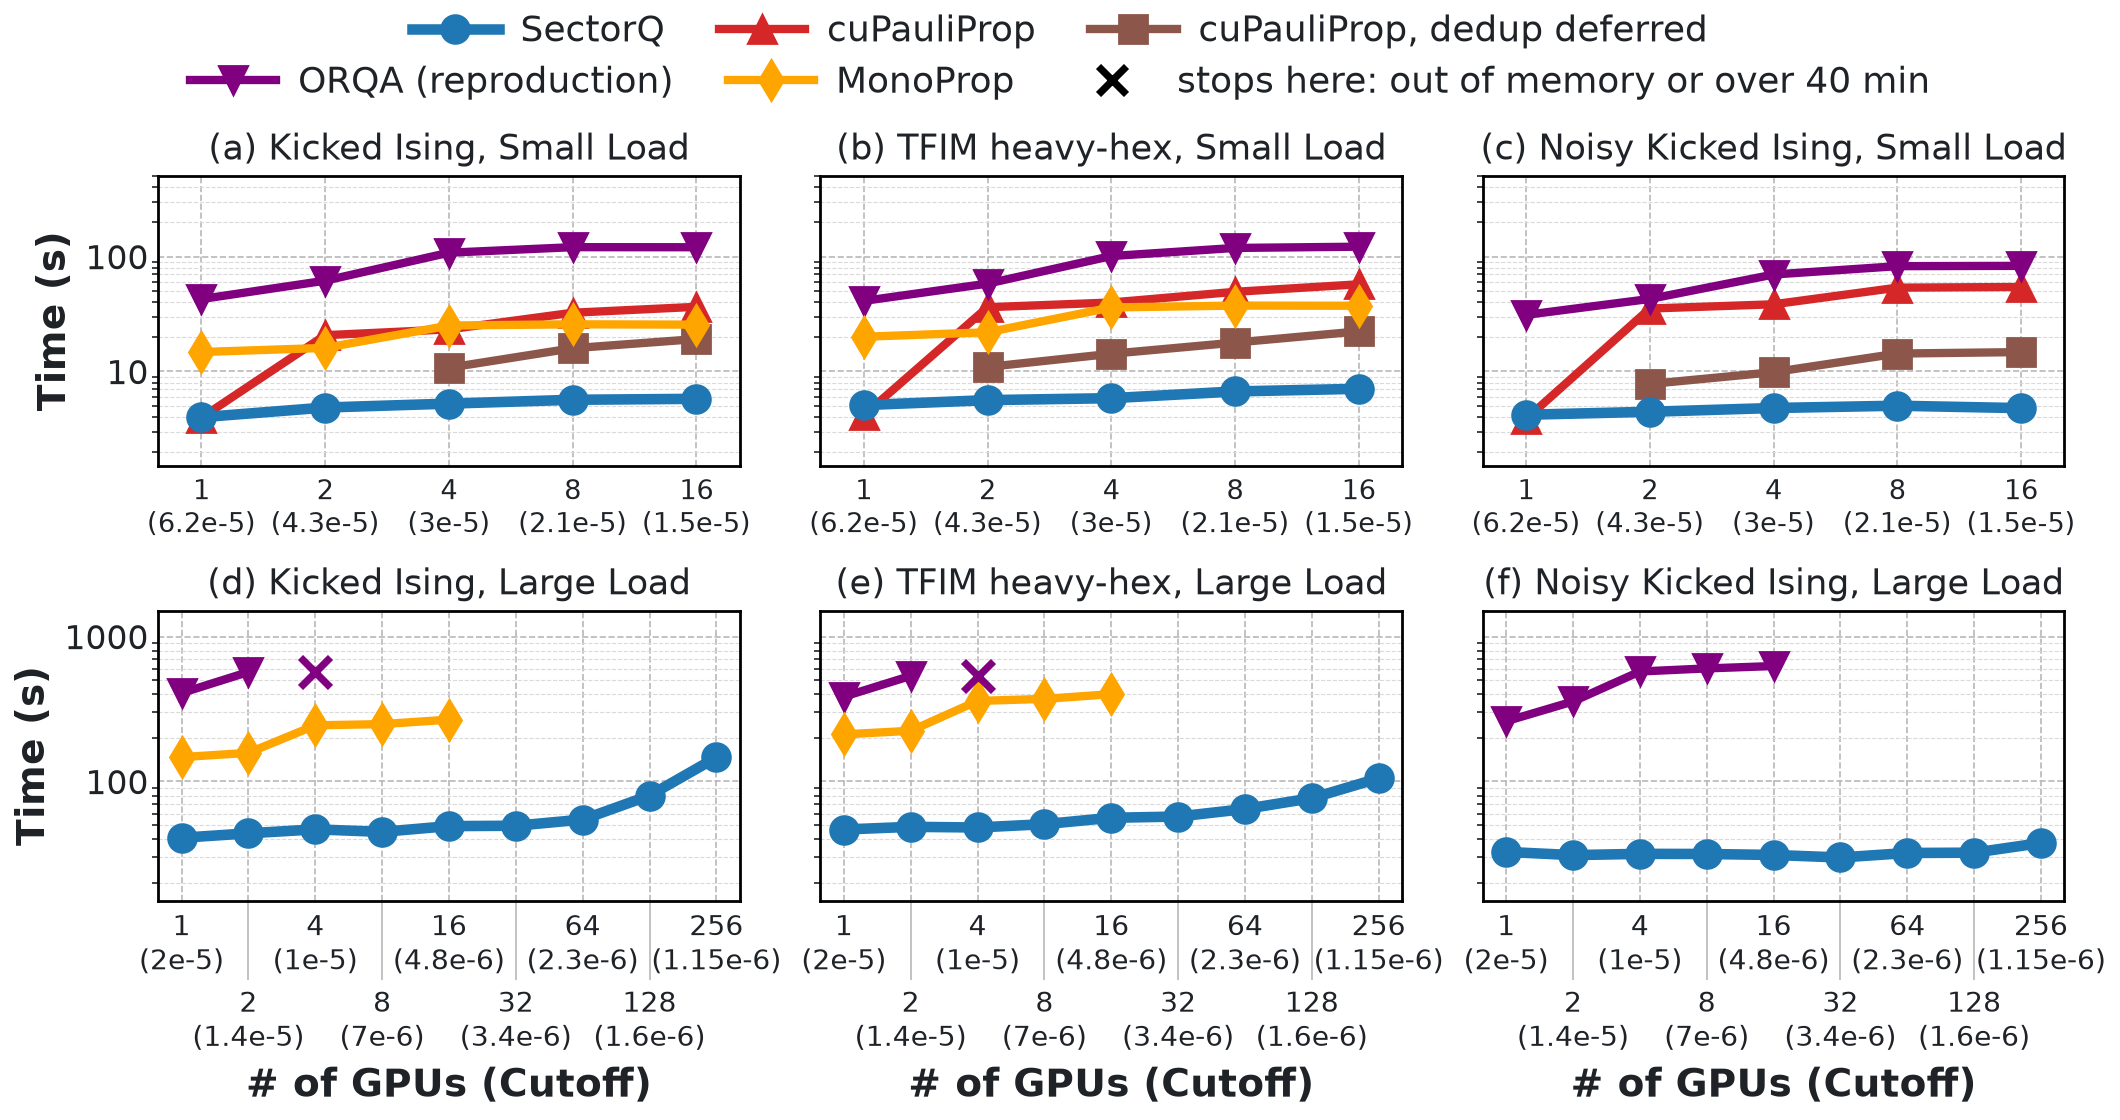
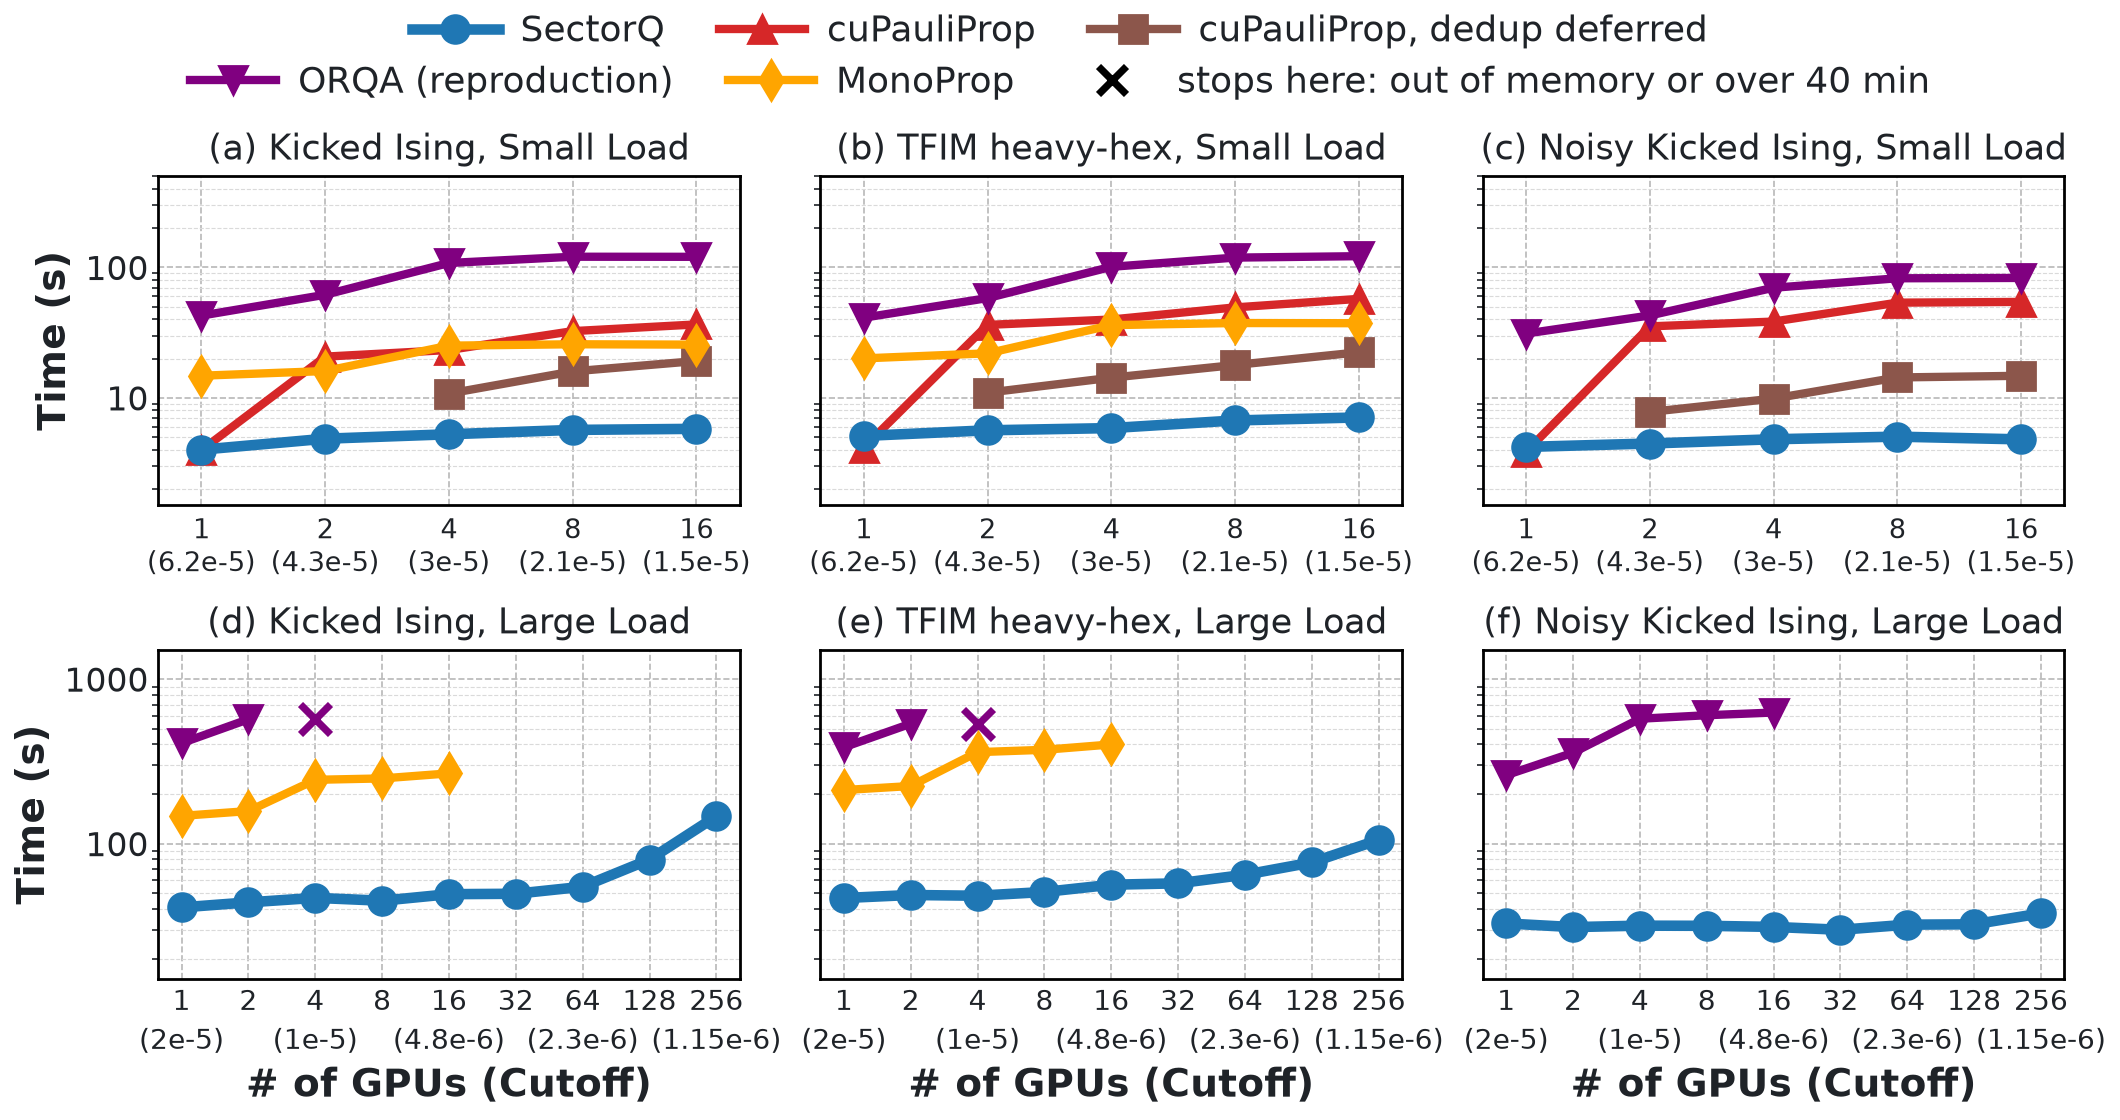
Deck weak-scaling figure: tick labels on one row
The large-load panels have nine GPU counts each. The GPU counts stay on one row and the cutoff is printed under every
second count (one_row), in place of labels staggered over two rows.

Changed region(s): [[0.0, 0.1875, 0.9962, 0.9375]]

diff --git a/figures/make_deck_figures.py b/figures/make_deck_figures.py
@@ -197,6 +197,22 @@ def stagger(ax, size, lines=2):
     ax.grid(True, which="minor", axis="x", color="#B8B8B8", linewidth=0.6, linestyle="--")
 
 
+def one_row(ax, size):
+    """The x tick labels of a panel with many ticks stay on one row: every tick has the first line of its label (the
+    GPU count) and every second tick the second line (the cutoff) below it. The second lines are the labels of minor
+    ticks at the same places, so that shrink_ticks compares them with each other only."""
+    ticks = list(ax.get_xticks())
+    labels = [t.get_text().split("\n") for t in ax.get_xticklabels()]
+    ax.set_xticks(ticks)
+    ax.set_xticklabels([l[0] for l in labels], fontsize=size)
+    ax.xaxis.remove_overlapping_locs = False                    # the minor ticks are at the places of major ticks
+    ax.set_xticks(ticks[0::2], minor=True)
+    ax.set_xticklabels([l[1] for l in labels[0::2]], minor=True, fontsize=size)
+    major = ax.xaxis.get_major_ticks()[0]
+    ax.tick_params(axis="x", which="minor", length=0, labelsize=size,
+                   pad=major.get_pad() + major.tick1line.get_markersize() + 1.22 * size)        # one text line below the GPU counts
+
+
 def value(ax, x, y, s, dx=0, dy=9, ha="center", size=13):
     """A measured value printed at its point (offsets in points); the check looks at every one of them."""
     t = ax.annotate(s, (x, y), xytext=(dx, dy), textcoords="offset points", ha=ha, va="bottom" if dy >= 0 else "top",
@@ -587,7 +603,7 @@ def d_weak():
                     t.set_fontsize(11)
             else:
                 ax.xaxis.label.set_fontsize(14)
-                stagger(ax, 10.5)
+                one_row(ax, 11.5)
     e = entries(fig, grid[0][0])
     top = strip(fig, [e[:3], e[3:]], size=13)
     finish(fig, "d_weak", top - 0.08 / H, wgap=0.1)
